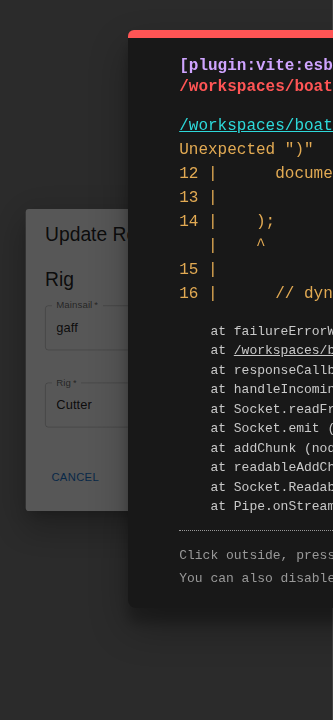
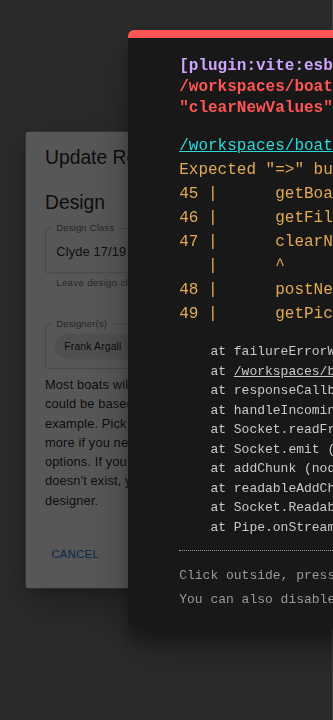
fix tests

diff --git a/tests/browser/editboatwizard.test.jsx b/tests/browser/editboatwizard.test.jsx
@@ -42,6 +42,8 @@ function sleep(ms) {
 
 vi.mock('../../src/util/api', () => {
   return {
+    getBoatData: async (id) => Promise.resolve(boat),
+    getFilterable: async () => Promise.resolve({}),
     clearNewValues: () => Promise.resolve(vi.fn()),
     postNewValues: () => Promise.resolve(vi.fn()),
     getPicklist: async (name) => pickers[name] || [],
